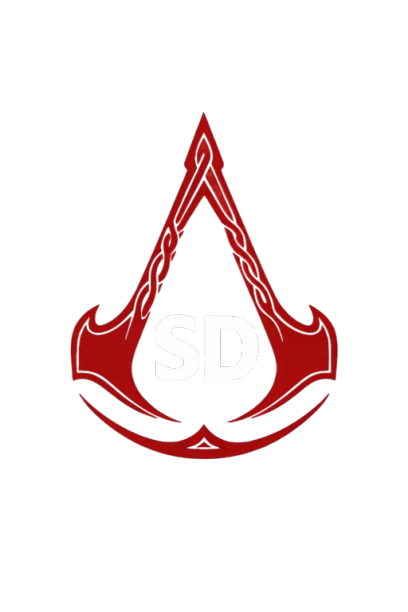
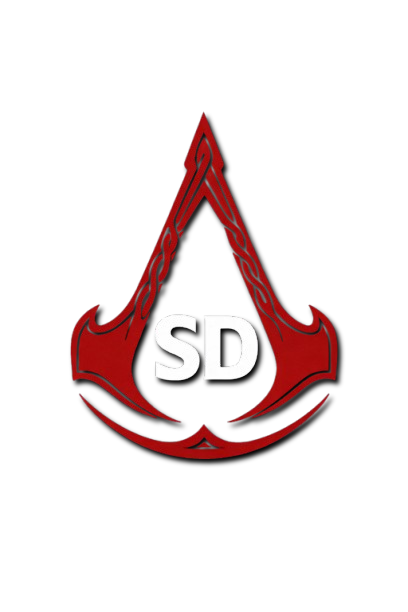
/./

Changed region(s): [[0.1765, 0.1863, 0.8529, 0.7761]]

diff --git a/src/components/Navigation.vue b/src/components/Navigation.vue
@@ -3,7 +3,7 @@
     <div class="nav-container">
       <a href="#home" class="nav-brand" @click.prevent="scrollToSection('home')">
         <div class="brand-icon">
-          <img src="/sd.png" alt="Saqib Din" />
+          <img src="/sd-2.png" alt="Saqib Din" />
           <div class="brand-glow"></div>
         </div>
         <div class="brand-info d-flex flex-column lh-sm" style="display: flex; flex-direction: column; line-height: 1.3;">

diff --git a/src/components/PageLoader.vue b/src/components/PageLoader.vue
@@ -2,7 +2,7 @@
   <div class="page-loader" :class="{ hidden: !loading }">
     <div class="loader-content">
       <div class="loader-logo">
-        <img src="/sd.png" alt="SD" />
+        <img src="/sd-2.png" alt="SD" />
       </div>
       <div class="loader-text">Loading</div>
       <div class="loader-bar">

diff --git a/index.html b/index.html
@@ -20,7 +20,7 @@
       rel="stylesheet"
     />
 
-    <link rel="icon" type="image/png" sizes="32x32" href="/sd-1.png" />
+    <link rel="icon" type="image/png" sizes="32x32" href="/sd-2.png" />
   </head>
   <body>
     <div id="app"></div>
